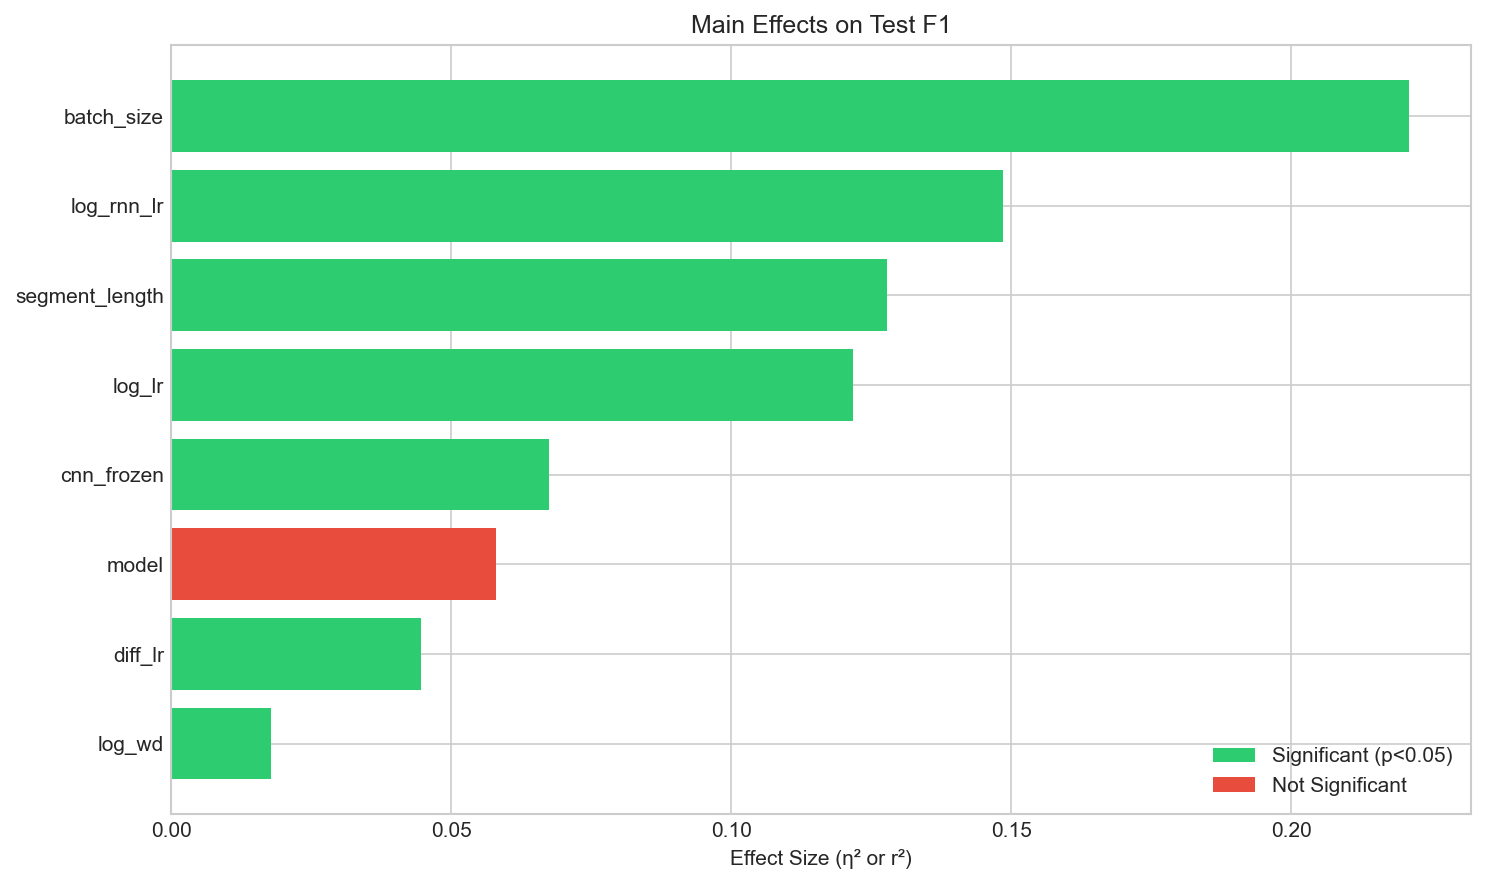
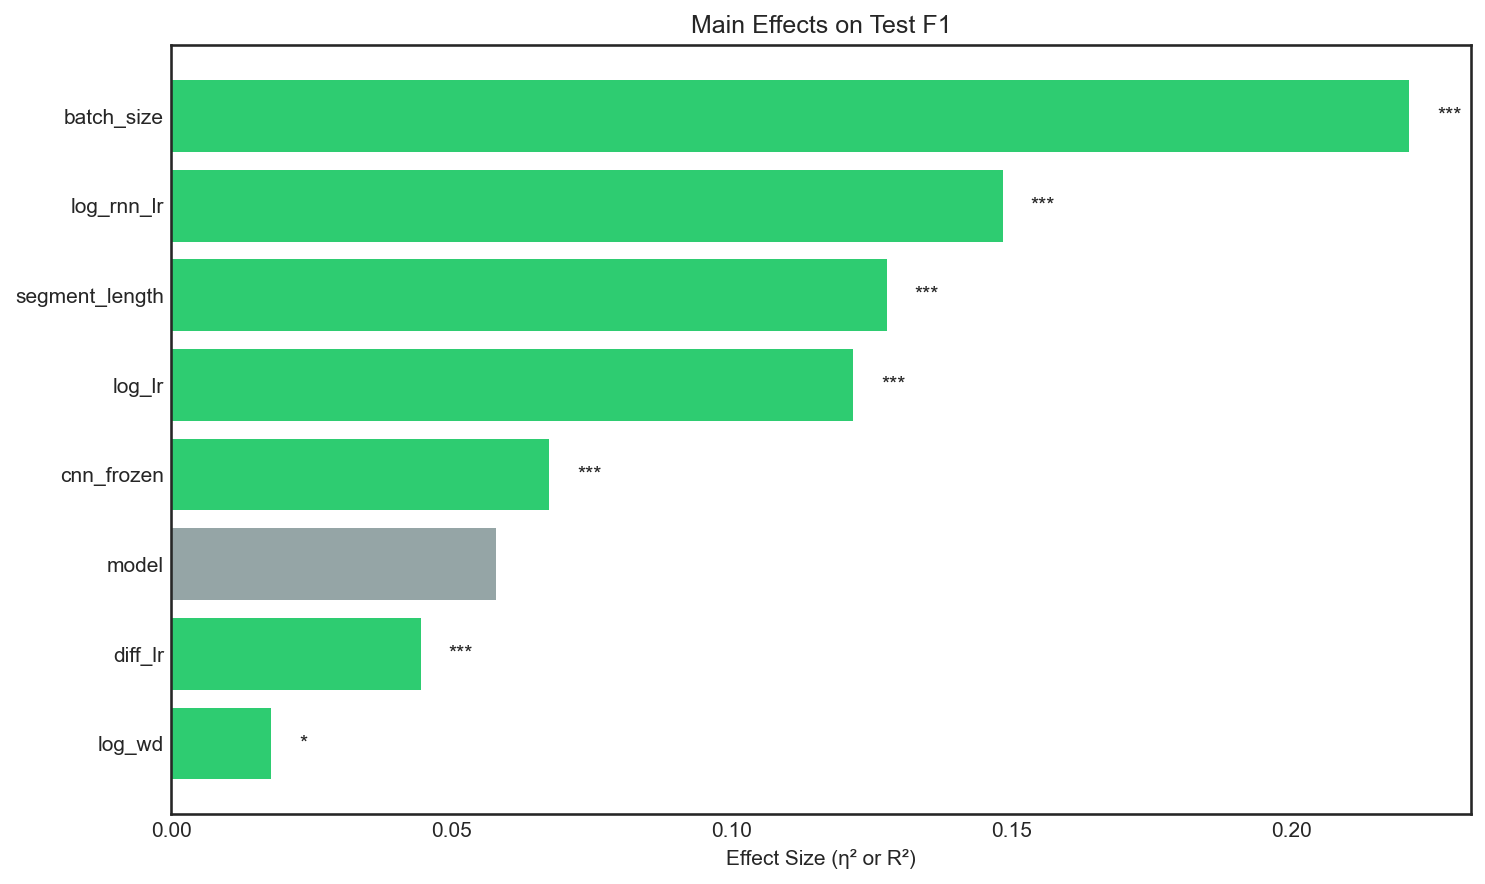
Finalize report and update analysis outputs
Marked final paper and submission tasks as complete in README. Added the full DOE analysis report (report.txt), updated usage instructions in analysis/main.py, fixed matplotlib style in analysis/outputs.py, refreshed figures, and appended new results to results_table.csv.

diff --git a/analysis/main.py b/analysis/main.py
@@ -6,11 +6,11 @@ main.py - command line interface
 unified entry point for all analysis tasks.
 
 usage:
-    python main.py analyze --exclude-mps
-    python main.py optimize --method rf --exclude-mps
-    python main.py visualize --exclude-mps --output-dir figures
-    python main.py report --exclude-mps --output report.txt
-    python main.py interpret --exclude-mps
+    python analysis/main.py analyze --exclude-mps
+    python analysis/main.py optimize --method rf --exclude-mps
+    python analysis/main.py visualize --exclude-mps --output-dir figures
+    python analysis/main.py report --exclude-mps --output report.txt
+    python analysis/main.py interpret --exclude-mps
 """
 
 import argparse

diff --git a/analysis/outputs.py b/analysis/outputs.py
@@ -149,7 +149,7 @@ def setup_matplotlib():
     """setup matplotlib with available style."""
     import matplotlib.pyplot as plt
     
-    for style in ['seaborn-v0_8-whitegrid', 'seaborn-whitegrid', 'ggplot']:
+    for style in ['seaborn-v0_8-white', 'seaborn-white', 'ggplot']:
         try:
             plt.style.use(style)
             break

diff --git a/README.md b/README.md
@@ -328,15 +328,15 @@ python grad_cam_ecg.py --checkpoint checkpoints/cnn_lstm_seed42_*.pt --num-sampl
   - [x] Train with optimized hyperparameters (F1=0.750 achieved)
   - [x] Finalize results tables and DOE statistical analysis (264 runs)
 - [x] **[T13]** Deliver presentations (Dec 1 & 4, 2025)
-- [ ] **[T14]** Write final paper (in progress)
-  - [ ] Methods section (architecture, preprocessing, training)
-  - [ ] Results section (tables, figures, statistical tests)
-  - [ ] Discussion and interpretation
-  - [ ] Limitations and future work
+- [x] **[T14]** Write final paper (in progress)
+  - [x] Methods section (architecture, preprocessing, training)
+  - [x] Results section (tables, figures, statistical tests)
+  - [x] Discussion and interpretation
+  - [x] Limitations and future work
   - [x] References and citations
-- [ ] **[T15]** Submit final paper (Dec 11, 2025) and archive GitHub release
-  - [ ] Final proofreading and formatting
-  - [ ] Tag GitHub release with code, configs, and trained models
+- [x] **[T15]** Submit final paper (Dec 11, 2025) and archive GitHub release
+  - [x] Final proofreading and formatting
+  - [x] Tag GitHub release with code, configs, and trained models
 
 ### Key Findings & Lessons Learned
 - **MPS Backend Bug:** PyTorch MPS backend on Apple Silicon had silent gradient failures in LSTM operations (addcmul_, addcdiv_), causing complete learning collapse (F1=0.14 vs 0.750 on CUDA)
